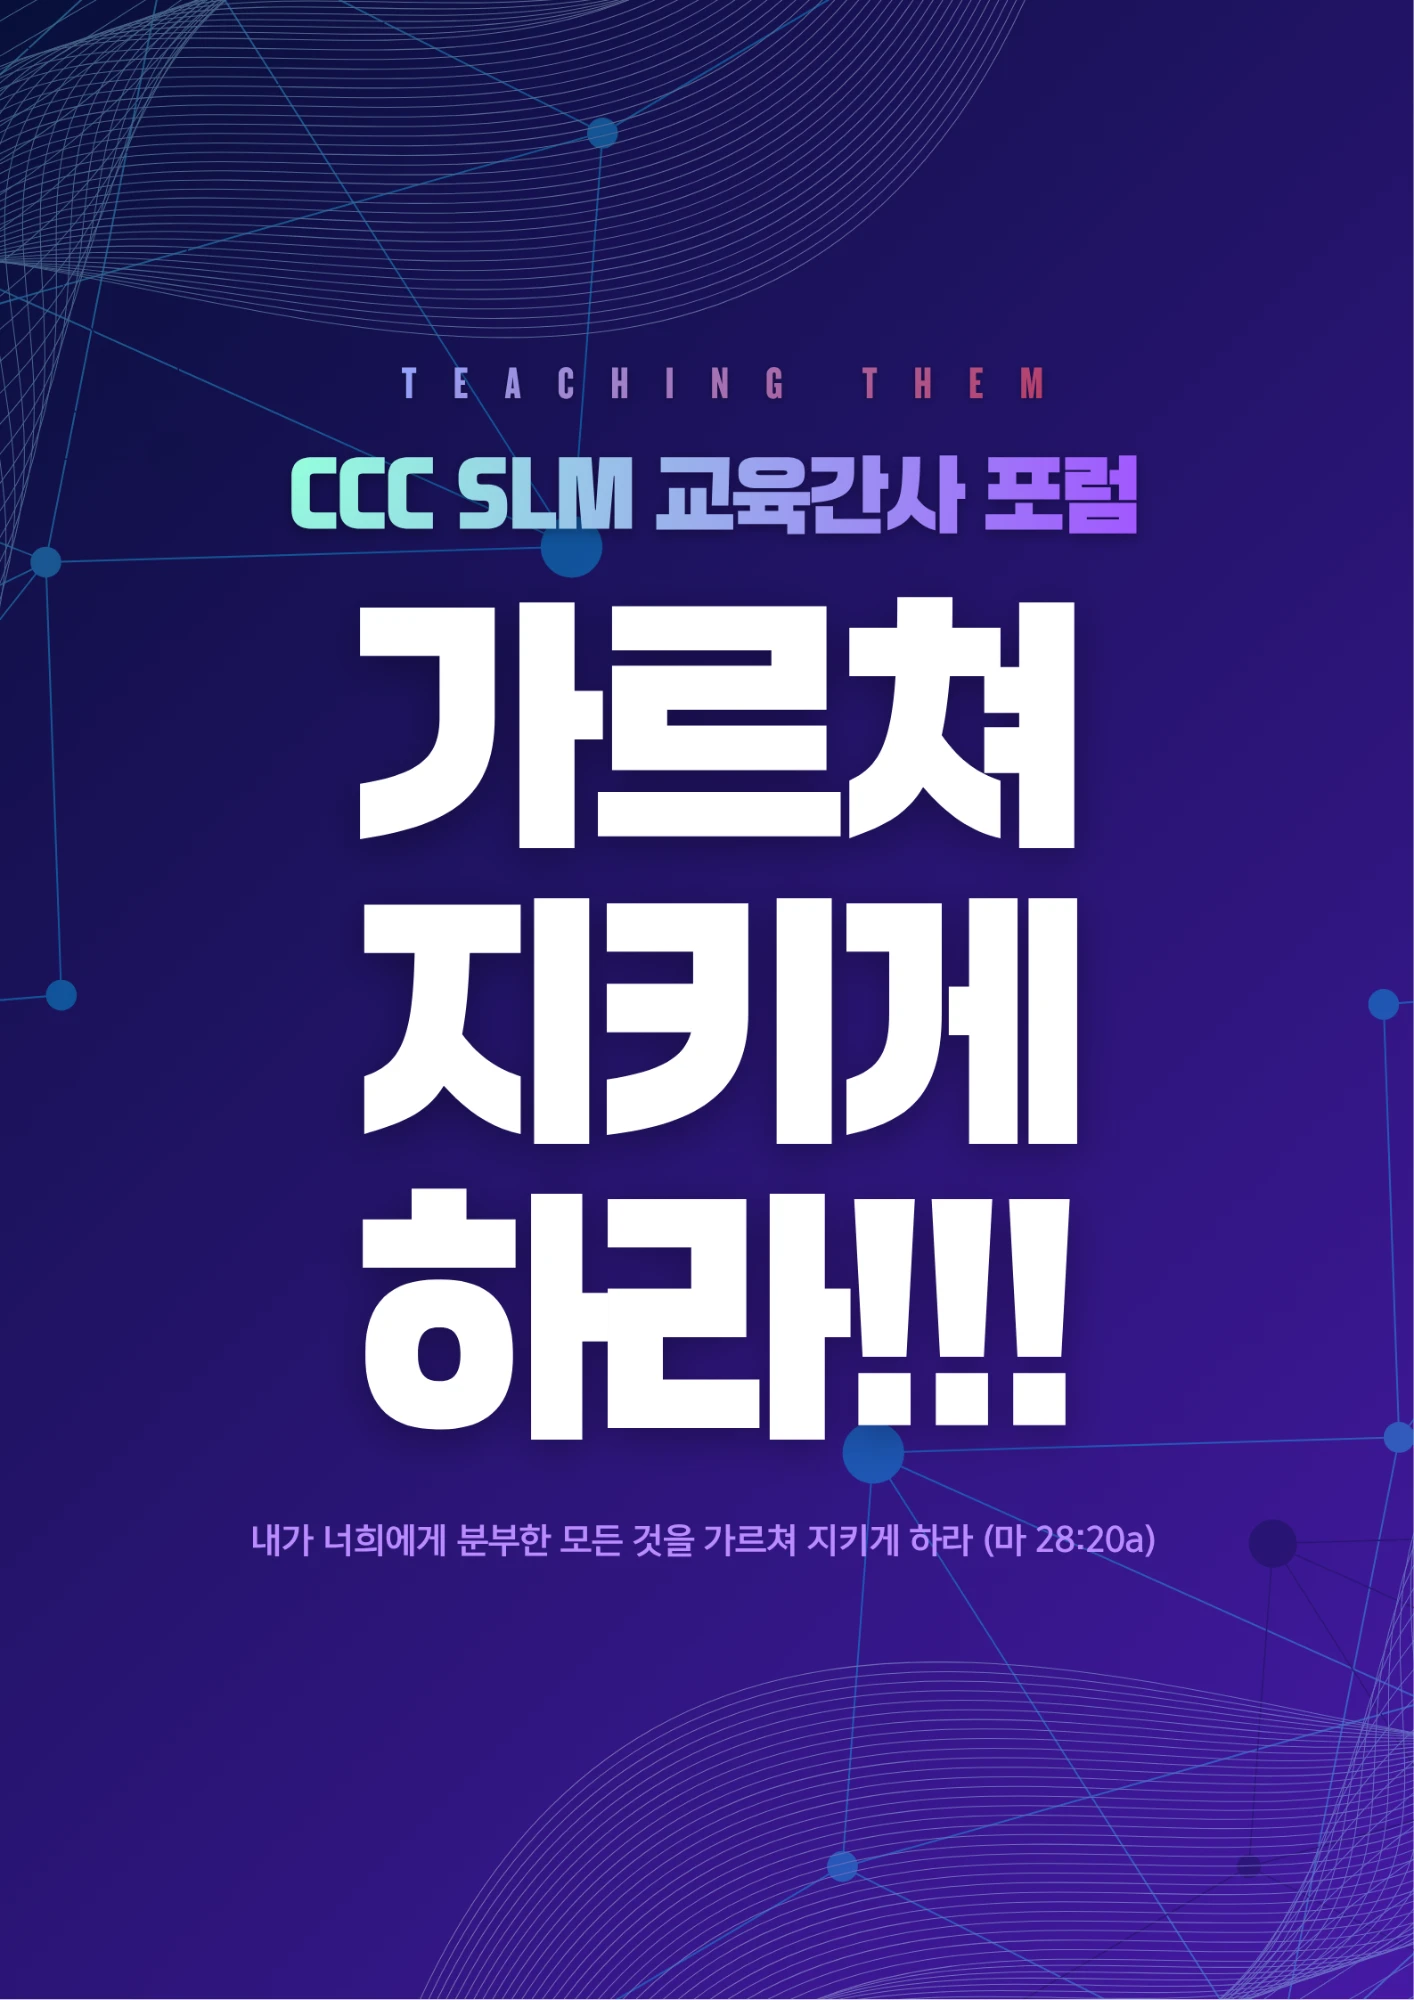
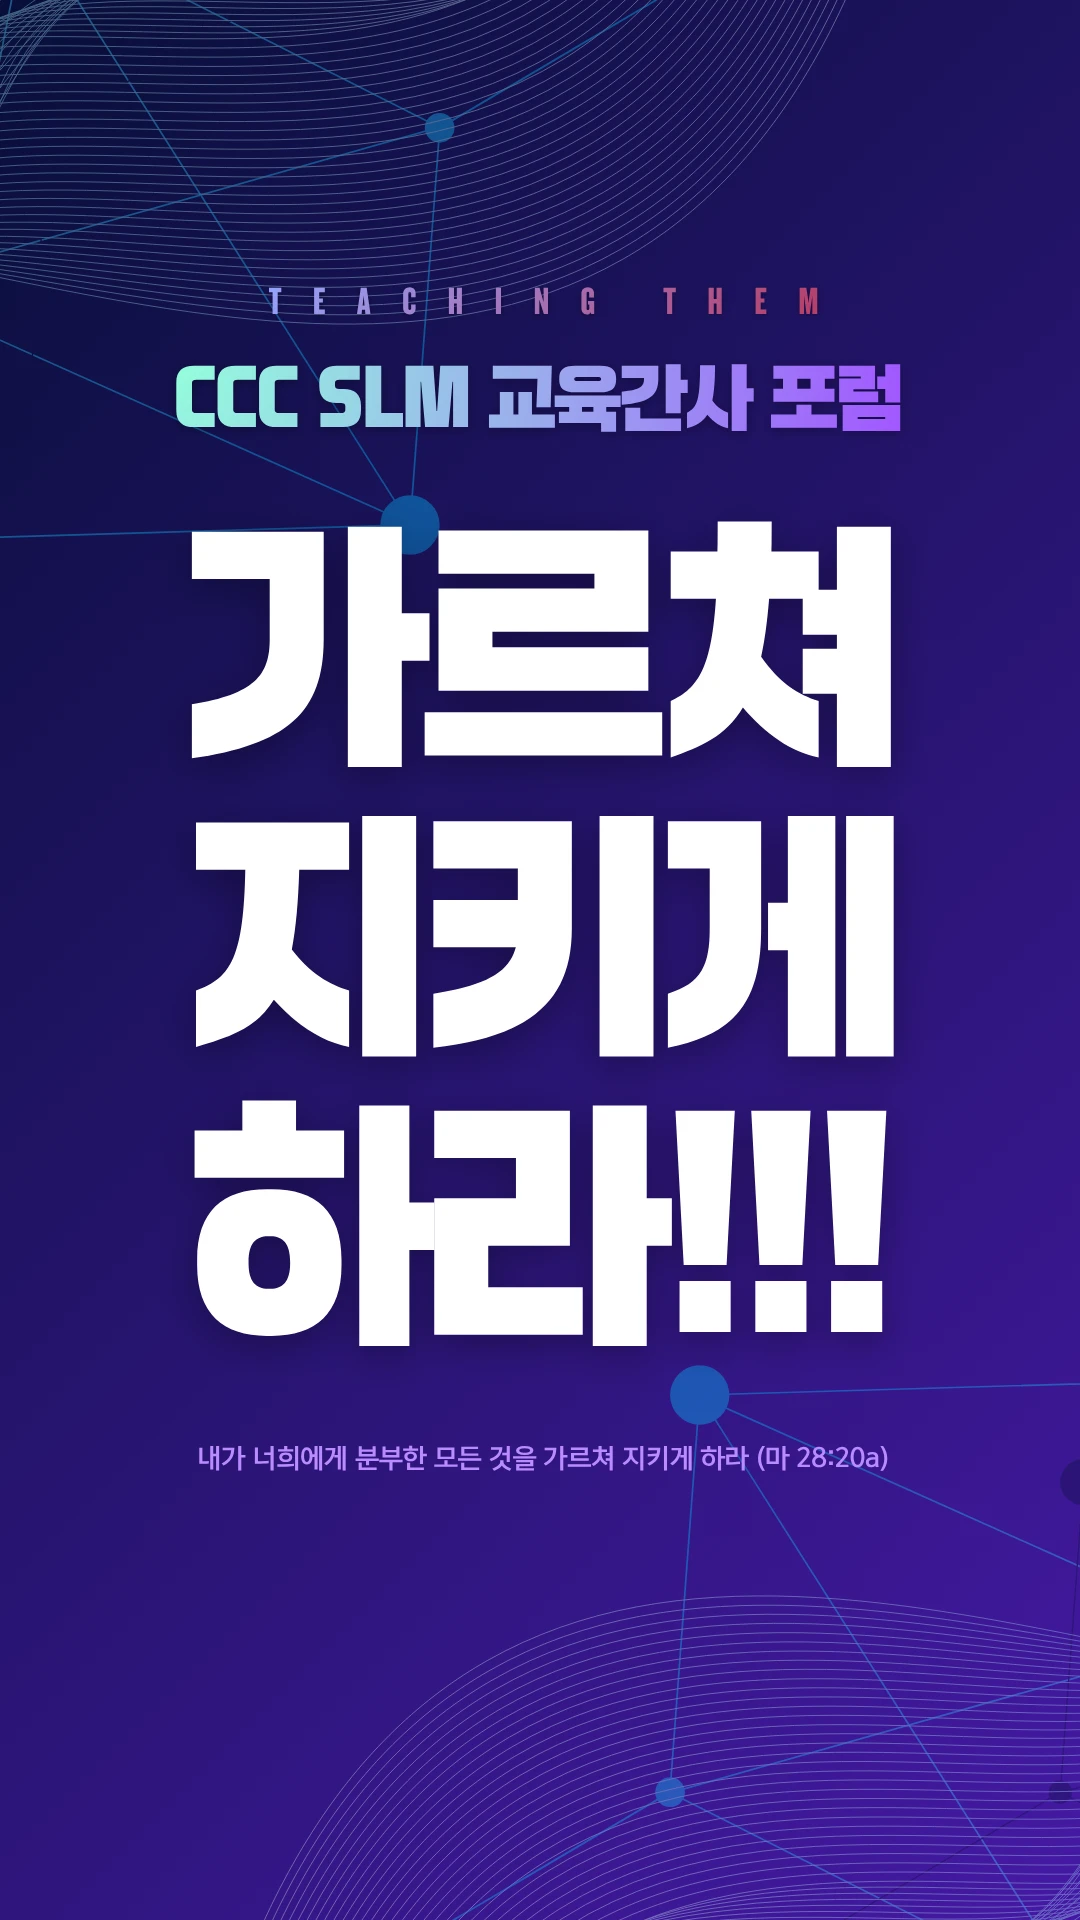
Update forum poster image and overlay button layout
Claude-Session: https://claude.ai/code/session_013uFstyjuijA1DLnwWi4TRd

diff --git a/components/ForumLanding.tsx b/components/ForumLanding.tsx
@@ -147,15 +147,16 @@ export default function ForumLanding() {
   }
 
   return (
-    <div className="min-h-screen flex flex-col"
+    <div className="min-h-screen flex flex-col relative"
       style={{ opacity: visible ? 1 : 0, transition: 'opacity 0.5s ease', background: '#0f0830' }}>
 
-      {/* 포스터 이미지 — 비율 그대로 */}
+      {/* 포스터 이미지 — 비율 그대로, 화면 꽉 채움 */}
       {/* eslint-disable-next-line @next/next/no-img-element */}
-      <img src="/forum-poster.webp" alt="" className="w-full" style={{ display: 'block' }} />
+      <img src="/forum-poster.webp" alt="" className="w-full h-screen object-cover object-top" style={{ display: 'block' }} />
 
-      {/* 하단 버튼 영역 */}
-      <div className="flex flex-col flex-1 items-center justify-center px-6 py-8 max-w-sm mx-auto w-full">
+      {/* 하단 버튼 오버레이 */}
+      <div className="absolute bottom-0 left-0 right-0 flex flex-col items-center px-6 pb-10 max-w-sm mx-auto w-full"
+        style={{ left: '50%', transform: 'translateX(-50%)', width: '100%', maxWidth: '28rem' }}>
         {/* 하단 영역 */}
         <div className="w-full space-y-4"
           style={{ opacity: visible ? 1 : 0, transform: visible ? 'translateY(0)' : 'translateY(20px)', transition: 'all 0.7s ease 0.4s' }}>
